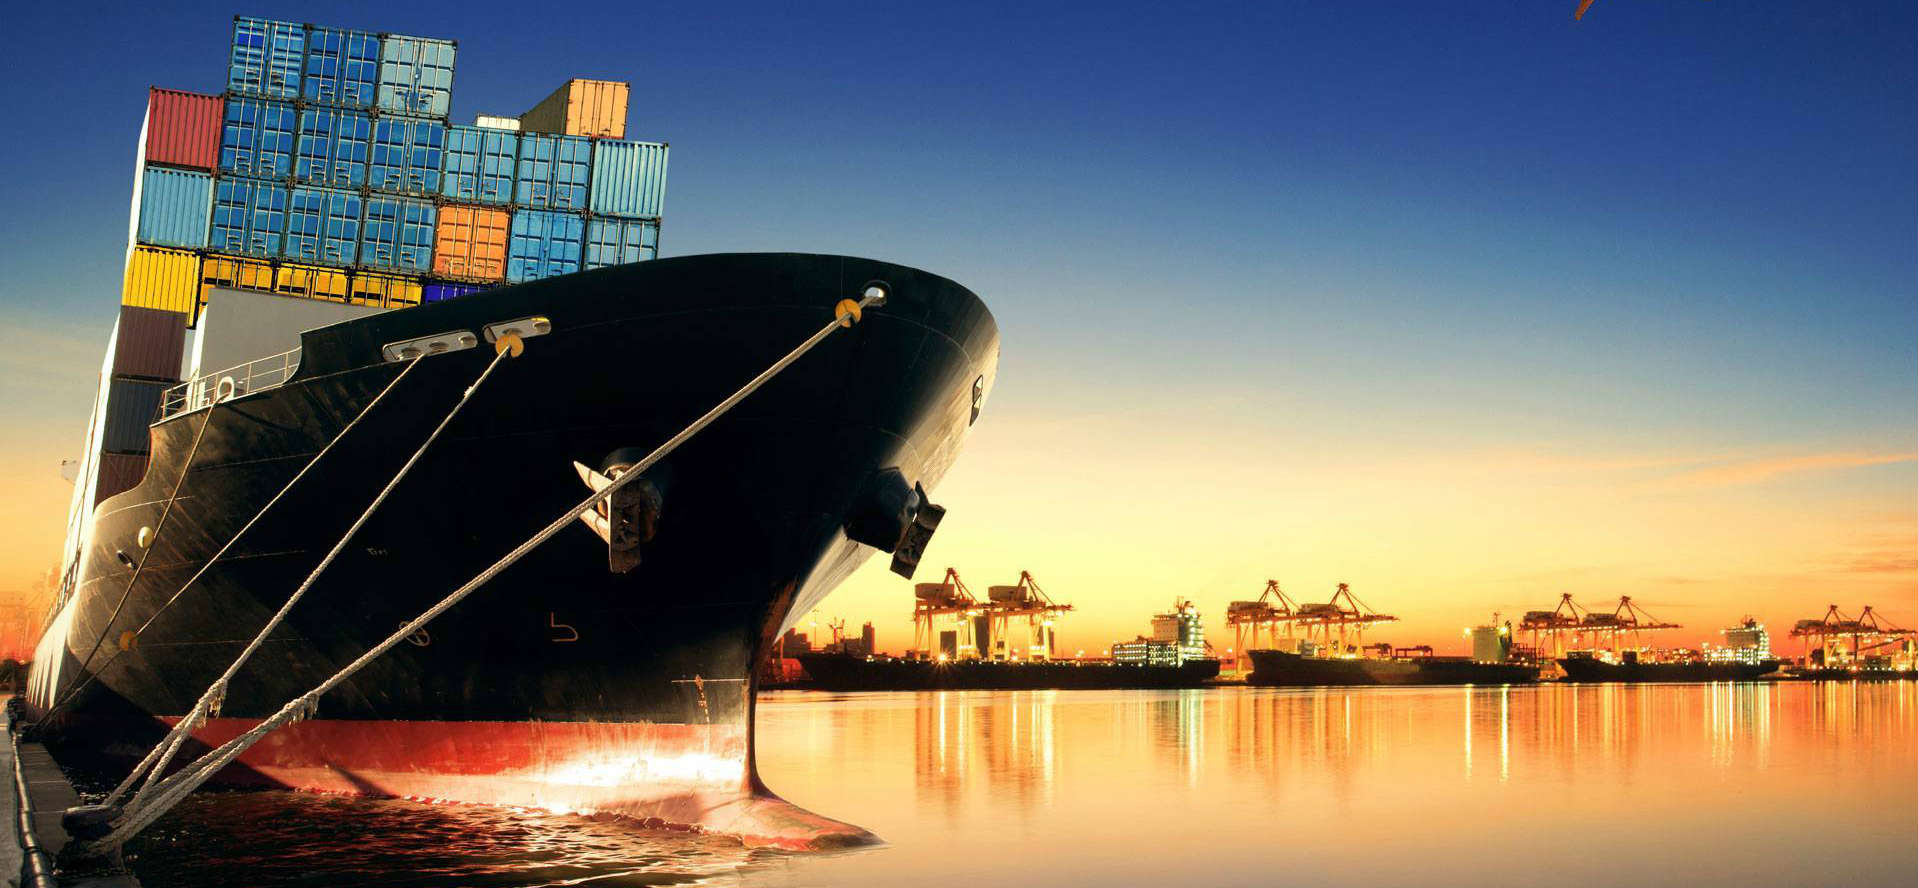
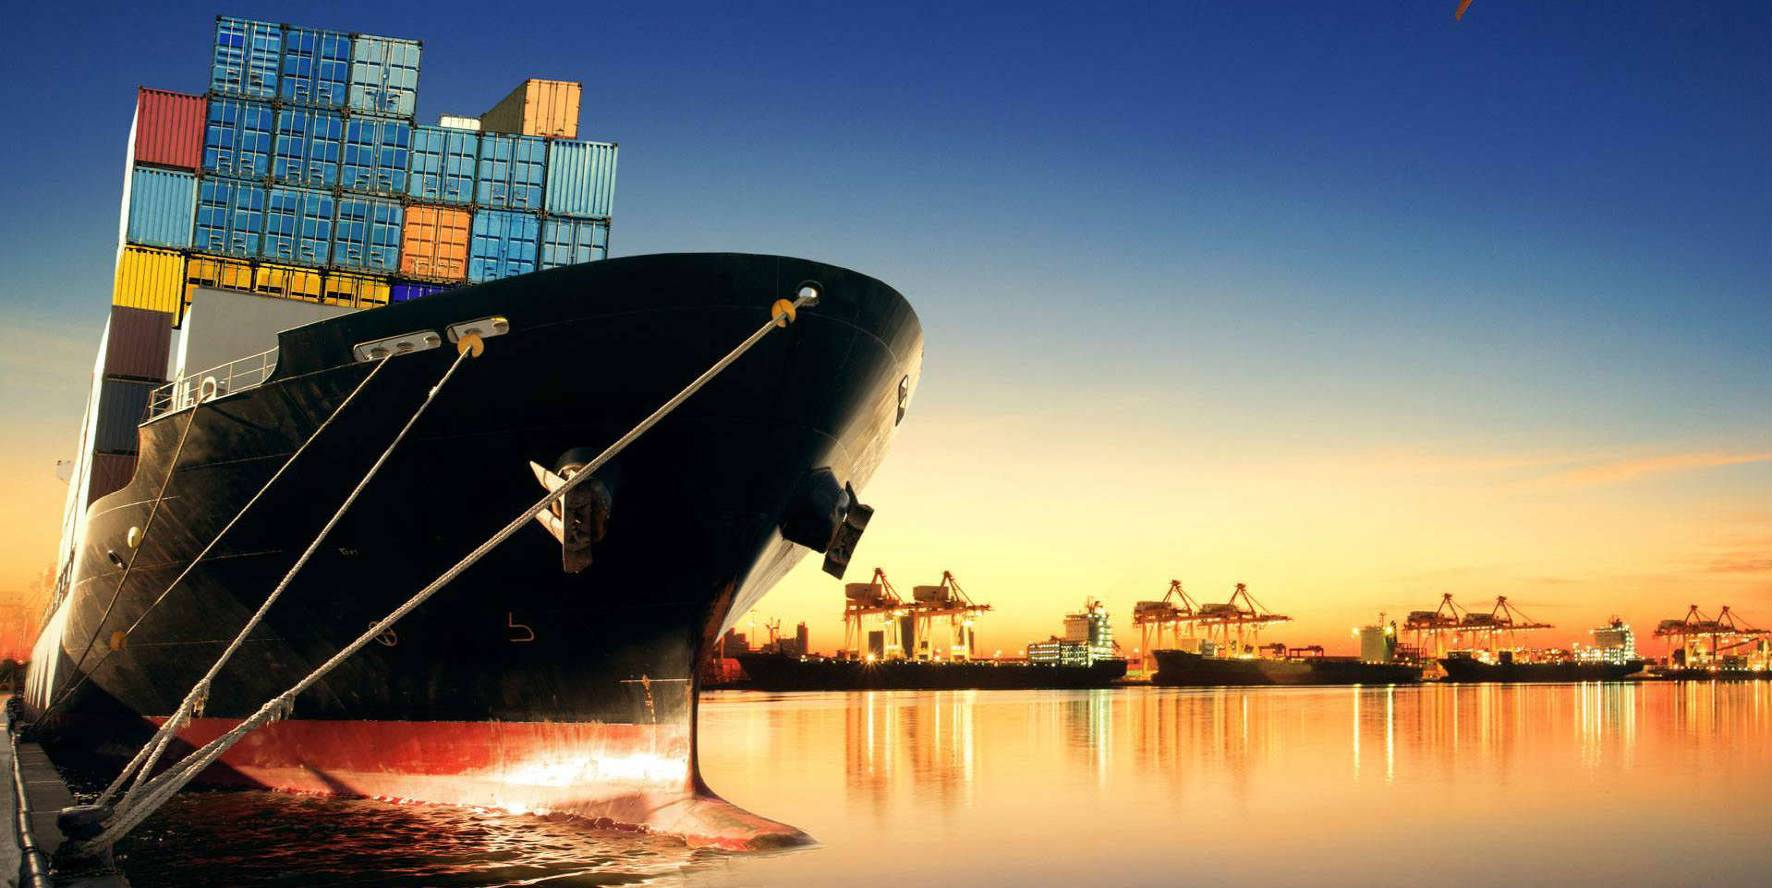
size change

Changed region(s): [[0.0621, 0.0304, 0.2483, 0.3649], [0.9001, 0.7297, 0.9312, 0.7601], [0.2793, 0.152, 0.3104, 0.1824]]

diff --git a/style.css b/style.css
@@ -68,9 +68,9 @@ img {
 }
 .slider_section {
   margin-top: 94px;
-  height: 560px;
+  /* height: 560px; */
   clear: both;
-  overflow: hidden;
+  /* overflow: hidden; */
   position: relative;
 }
 .slider_section img {
